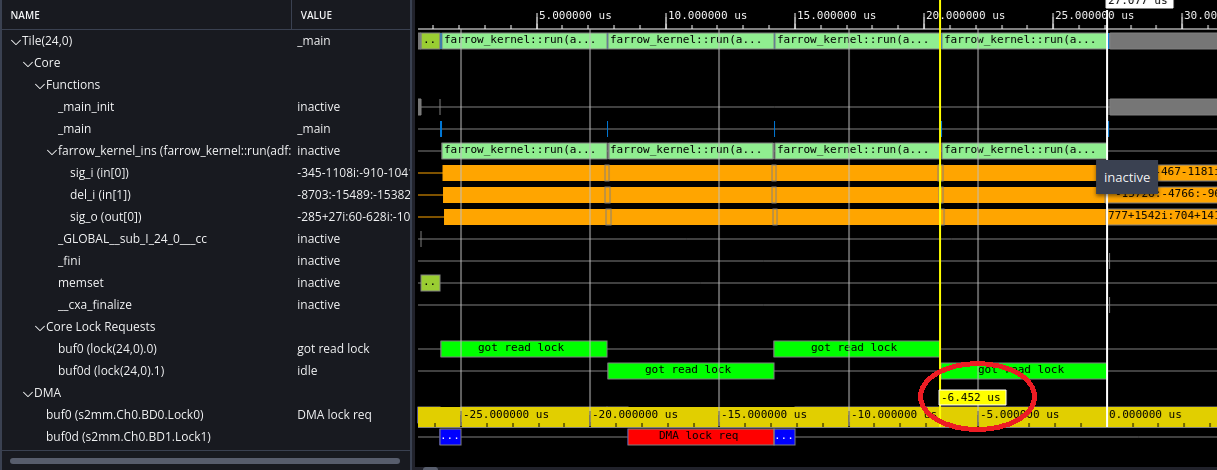
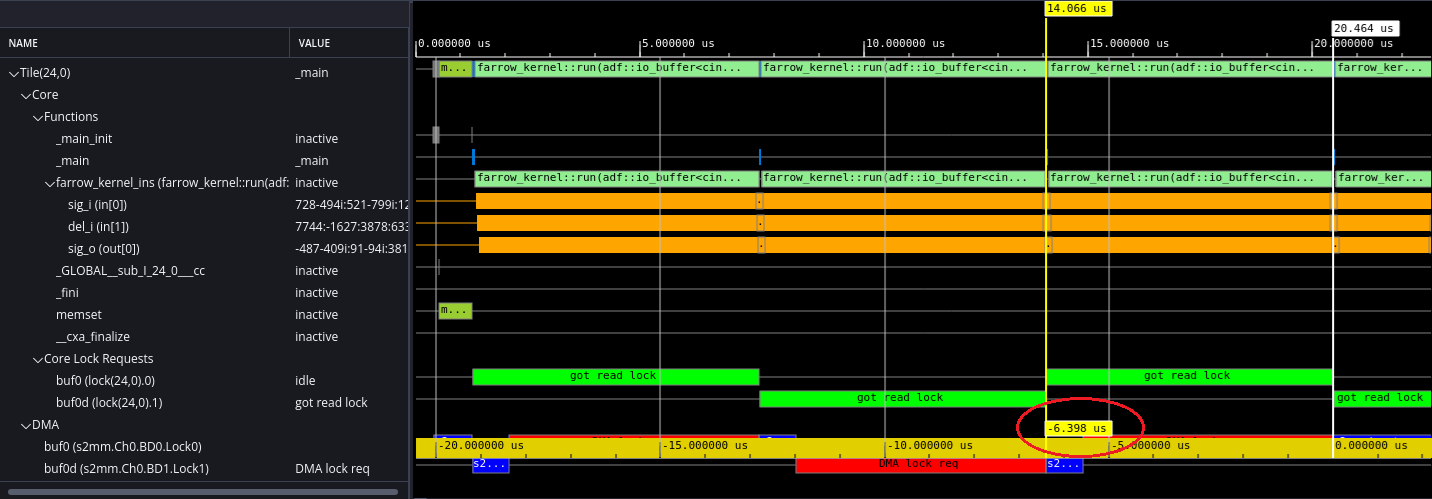
AIE/D/15-farrow_filter: update to 24.1

diff --git a/AI_Engine_Development/AIE/Design_Tutorials/15-farrow_filter/ps_apps/hw_emu/host.cpp b/AI_Engine_Development/AIE/Design_Tutorials/15-farrow_filter/ps_apps/hw_emu/host.cpp
@@ -158,7 +158,7 @@ int main(int argc, char* argv[])
   ss_i.close();
   del_i.close();
   std::cout << STR_PASSED << "Successfully read input file sig_i.txt" << std::endl;
-  std::cout << STR_PASSED << "Successfully read input file del_i.txt" << std::endl;
+  std::cout << STR_PASSED << "Successfully read input file del_i_optimized.txt" << std::endl;
 
   // ------------------------------------------------------------
   // Load and start PL kernels

diff --git a/AI_Engine_Development/AIE/Design_Tutorials/15-farrow_filter/README.md b/AI_Engine_Development/AIE/Design_Tutorials/15-farrow_filter/README.md
@@ -10,7 +10,7 @@
 
 # Fractional Delay Farrow Filter
 
-***Version: Vitis 2023.2***
+***Version: Vitis 2024.1***
 
 ## Table of Contents
 
@@ -147,8 +147,8 @@ The first command compiles graph code for the SystemC simulator, the second comm
 Alternatively, you can issue `make all`. The console should output:
 
 ```
-*** LOOP_II *** Tile: 24_0	minII: 43	beforeII: 124	afterII: 124	Line: 77	File: farrow_kernel.cpp
-Raw Throughput = 203.0 MSPS
+*** LOOP_II *** Tile: 24_0	minII: 43	beforeII: 123	afterII: 123	Line: 77	File: farrow_kernel.cpp
+Raw Throughput = 204.7 MSPS
 Max error LSB = 1
 ```
 
@@ -162,10 +162,10 @@ Launch vitis_analyzer `vitis_analyzer aiesimulator_output/default.aierun_summary
 
 *Figure 6 - Farrow Filter Initial Implementation Array View*
 
-Because every loop iteration produces 16 samples, you need II=16 to achieve your desired throughput. Your first design achieved II=124, so this version of the implementation clearly has no chance of achieving the desired throughput. You can get a rough estimate of the expected throughput using the expected versus achieved II.
+Because every loop iteration produces 16 samples, you need II=16 to achieve your desired throughput. Your first design achieved II=123, so this version of the implementation clearly has no chance of achieving the desired throughput. You can get a rough estimate of the expected throughput using the expected versus achieved II.
 
-In this case, 16/124 x 1.25 GHz = 161 Msps. Indeed, this is confirmed by the reported Raw Throughput, which is measured across all graph iterations. A more accurate throughput measurement can be made by measuring the steady state achieved in the final graph iteration.
-In vitis_analyzer, select the trace view and set markers to measure the throughput of this final iteration as shown below. Because each graph iteration processes 1024 samples, throughput = 1024/6.452 $us$ = 158.7 Msps.
+In this case, 16/123 x 1.25 GHz = 163 Msps. Indeed, this is confirmed by the reported Raw Throughput, which is measured across all graph iterations. A more accurate throughput measurement can be made by measuring the steady state achieved in the final graph iteration.
+In vitis_analyzer, select the trace view and set markers to measure the throughput of this final iteration as shown below. Because each graph iteration processes 1024 samples, throughput = 1024/6.398 $us$ = 160 Msps.
 
 ![figure7](images/farrow_initial_trace_view.png)
 
@@ -186,11 +186,11 @@ After running `make all`, the console should display:
 
 ```
 *** LOOP_II *** Tile: 24_0	minII: 28	beforeII: 91	afterII: 82	Line: 62	File: farrow_kernel.cpp
-Raw Throughput = 300.5 MSPS
+Raw Throughput = 300.8 MSPS
 Max error LSB = 1
 ```
 
-Achieved II dropped from 124 to 82, but you are still not where you need to be, so further optimization is needed.
+Achieved II dropped from 123 to 82, but you are still not where you need to be, so further optimization is needed.
 
 ### Second Farrow Optimization
 
@@ -237,7 +237,7 @@ After running `make all`, the console should display:
 *** LOOP_II *** Tile: 25_0	minII: 3	beforeII: 16	afterII: 3	Line: 94	File: farrow_kernel.cpp
 *** LOOP_II *** Tile: 25_0	minII: 3	beforeII: 16	afterII: 3	Line: 110	File: farrow_kernel.cpp
 *** LOOP_II *** Tile: 25_0	minII: 3	beforeII: 16	afterII: 3	Line: 126	File: farrow_kernel.cpp
-Raw Throughput = 768.5 MSPS
+Raw Throughput = 768.1 MSPS
 Max error LSB = 1
 ```
 
@@ -292,15 +292,15 @@ Steady state throughput is 1024/912.8e-6 = 1115 Msps.
 
 ### Setup and Initialization
 
->**IMPORTANT:** Before beginning the tutorial ensure you have installed Vitis 2023.2 software. Ensure you have downloaded the Common Images for Embedded Vitis Platforms from [this link](https://www.xilinx.com/support/download/index.html/content/xilinx/en/downloadNav/embedded-platforms/2023-2.html).
+>**IMPORTANT:** Before beginning the tutorial ensure you have installed Vitis 2024.1 software. Ensure you have downloaded the Common Images for Embedded Vitis Platforms from [this link](https://www.xilinx.com/support/download/index.html/content/xilinx/en/downloadNav/embedded-platforms.html).
 
-Set the ```COMMON_IMAGE_VERSAL``` environment variable to the full path where you have downloaded the Common Images. Then set the environment variable ```PLATFORM_REPO_PATHS``` to the value, ```$XILINX_VITIS/lin64/Vitis/2023.2/base_platforms```.
+Set the ```COMMON_IMAGE_VERSAL``` environment variable to the full path where you have downloaded the Common Images. Then set the environment variable ```PLATFORM_REPO_PATHS``` to the value, ```$XILINX_VITIS/lin64/Vitis/2024.1/base_platforms```.
 
 The remaining environment variables are configured in the top level Makefile ```<path-to-design>/15-farrow-filter/Makefile``` file.
 
 ```
 # Platform Selection...
-VERSAL_VITIS_PLATFORM      = xilinx_vck190_base_202320_1
+VERSAL_VITIS_PLATFORM      = xilinx_vck190_base_202410_1
 VITIS_PLATFORM_DIR         = ${PLATFORM_REPO_PATHS}/${VERSAL_VITIS_PLATFORM}
 export VITIS_PLATFORM_XPFM = ${VITIS_PLATFORM_DIR}/${VERSAL_VITIS_PLATFORM}.xpfm
 
